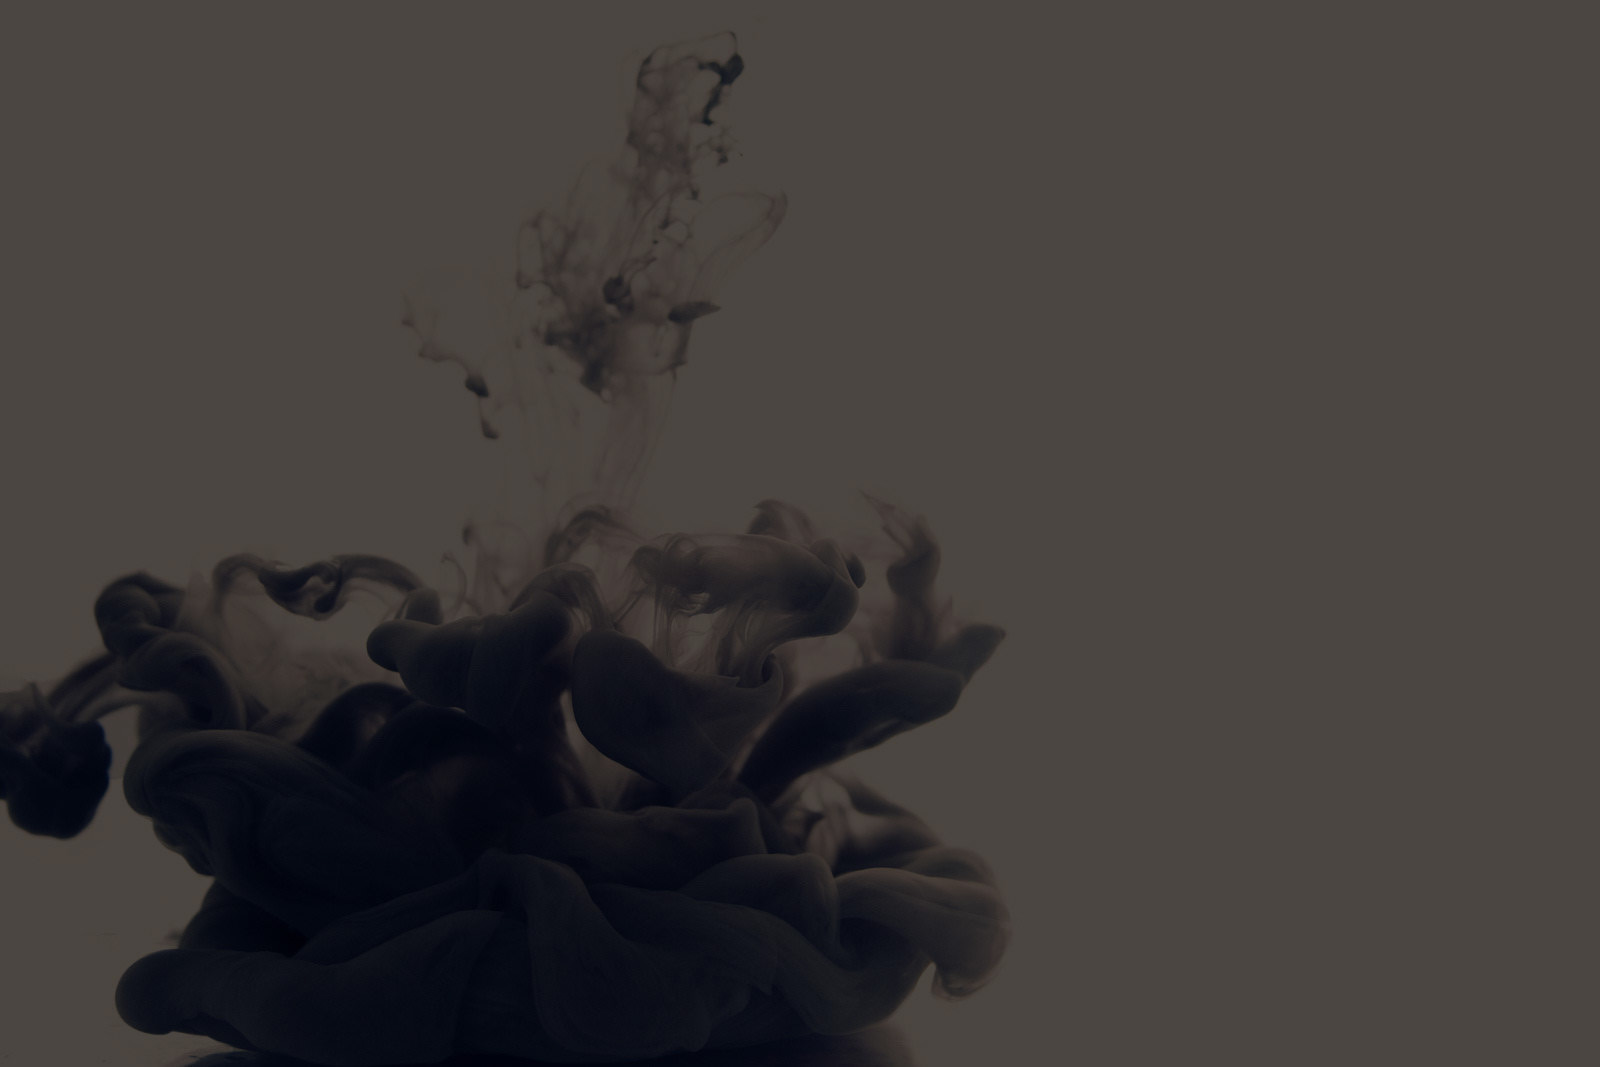
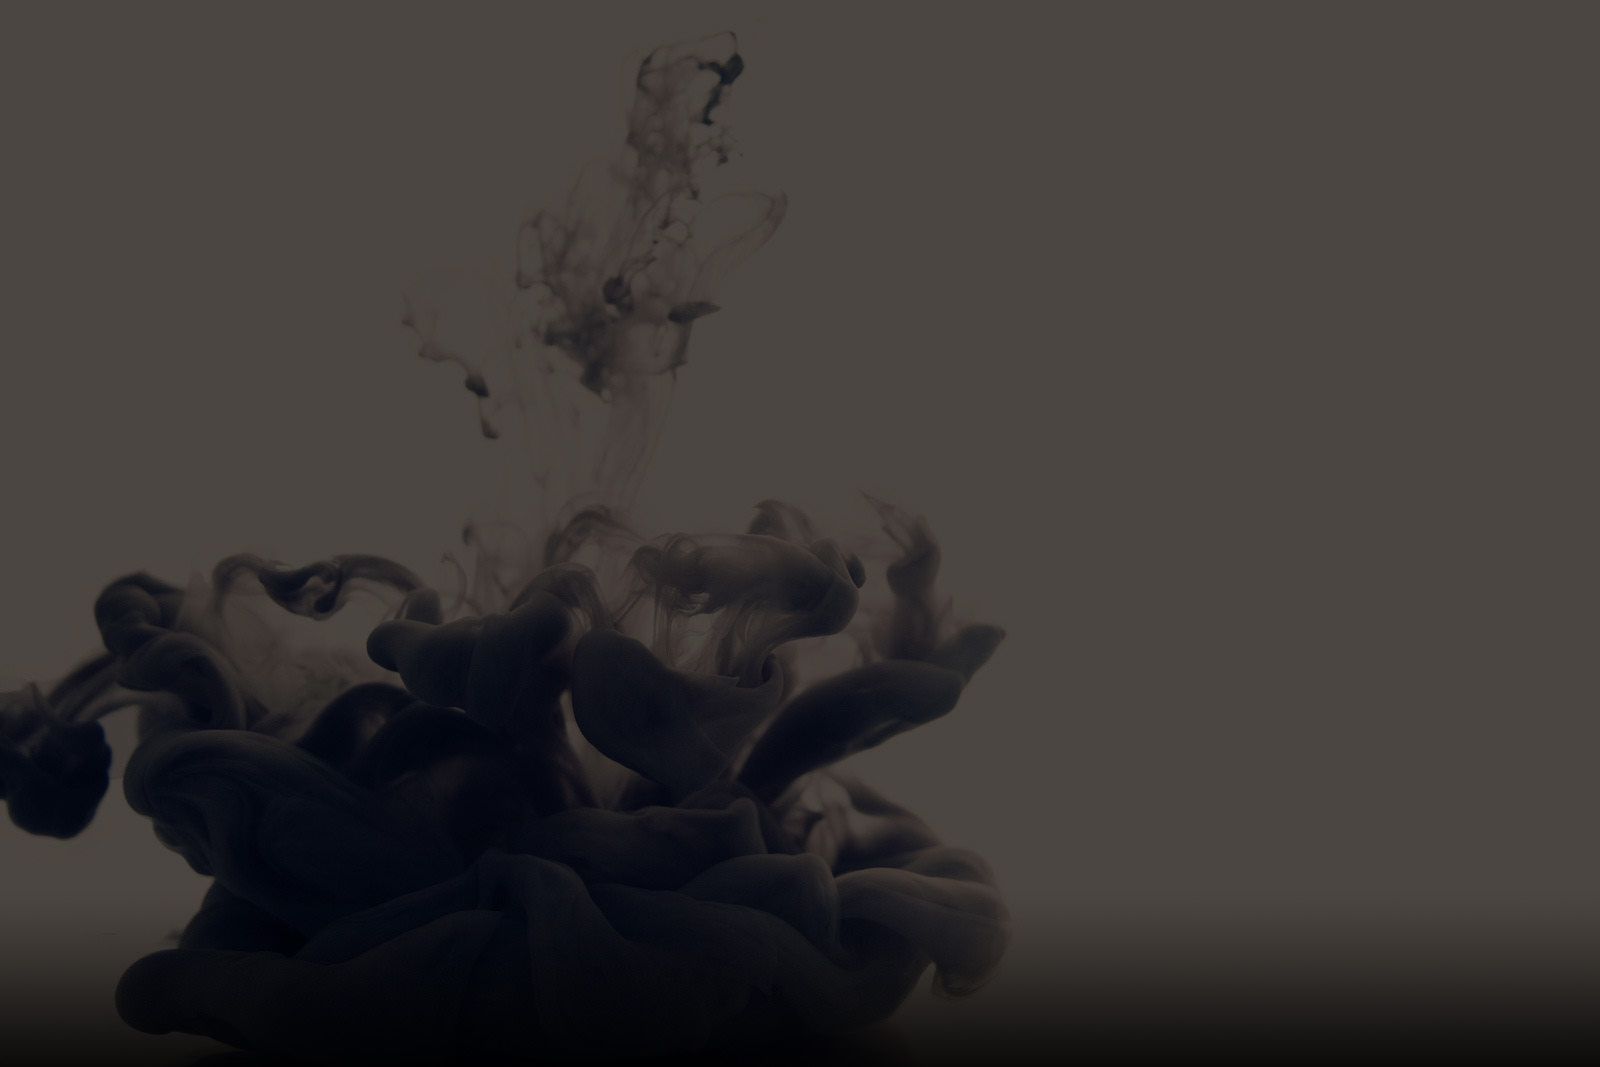
updated image so it fades out.
This reverts commit f59c8d2027b1a2db52793f3cde5f2bee9b155d5a.

Changed region(s): [[0.5, 0.8969, 1.0, 1.0], [0.0, 0.8969, 0.1562, 1.0]]

diff --git a/index.html b/index.html
@@ -77,7 +77,7 @@
 	<section id="about" class="container content-section text-center">
 		<div class="row">
 			<div class="col-lg-8 col-lg-offset-2">
-				<h2>A little bit about me:</h2>
+				<h2>A bit about me:</h2>
 				<p>Originally from the Palo Alto, CA in the heart of the Silicon Valley, I moved to Los Angeles to study Electrical Engineering at UCLA. After graduation, I worked at SanDisk Corp. as a Product Engineer on the Inifiniflash Enterprise Solution.</p>
 				<p>One day I woke up and decided that the world was too big to not step outside and explore a little. I left my position and moved to China to start my own startup, bringing my technology and product experience.</p>
 				<p>Outside of all that boring engineering stuff, I enjoy the following:

diff --git a/css/alby.css b/css/alby.css
@@ -160,7 +160,7 @@ a:hover, a:focus {
 @media(min-width:768px) {
     .intro {
         height: 100%;
-        padding: 20;
+        padding: 0;
     }
 
     .intro .intro-body .header-name {
